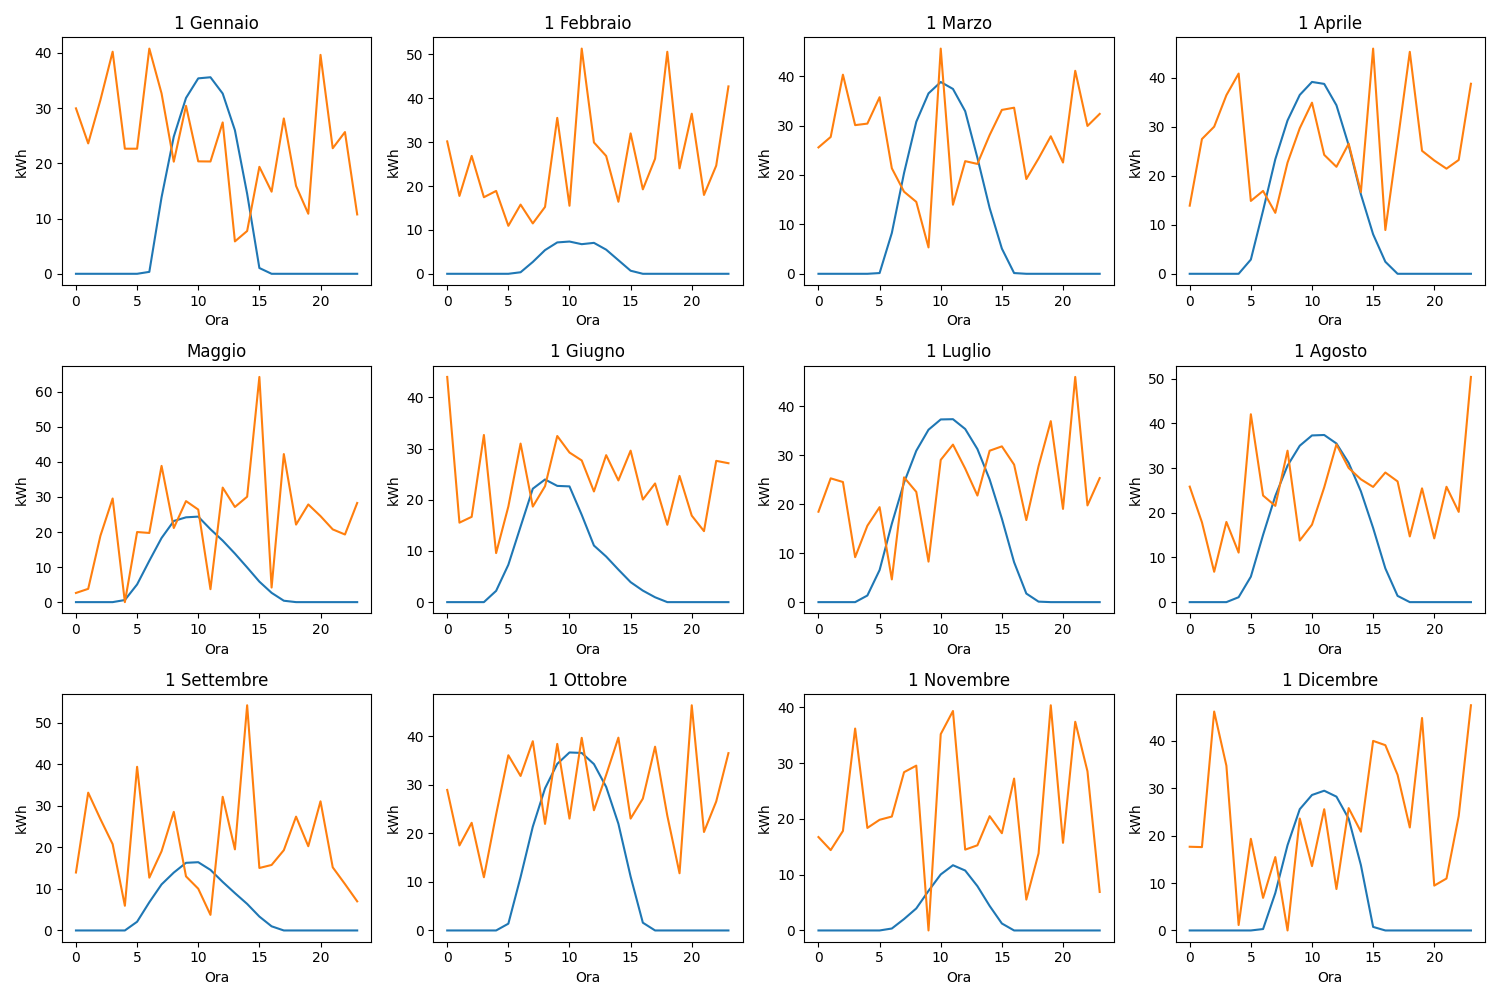
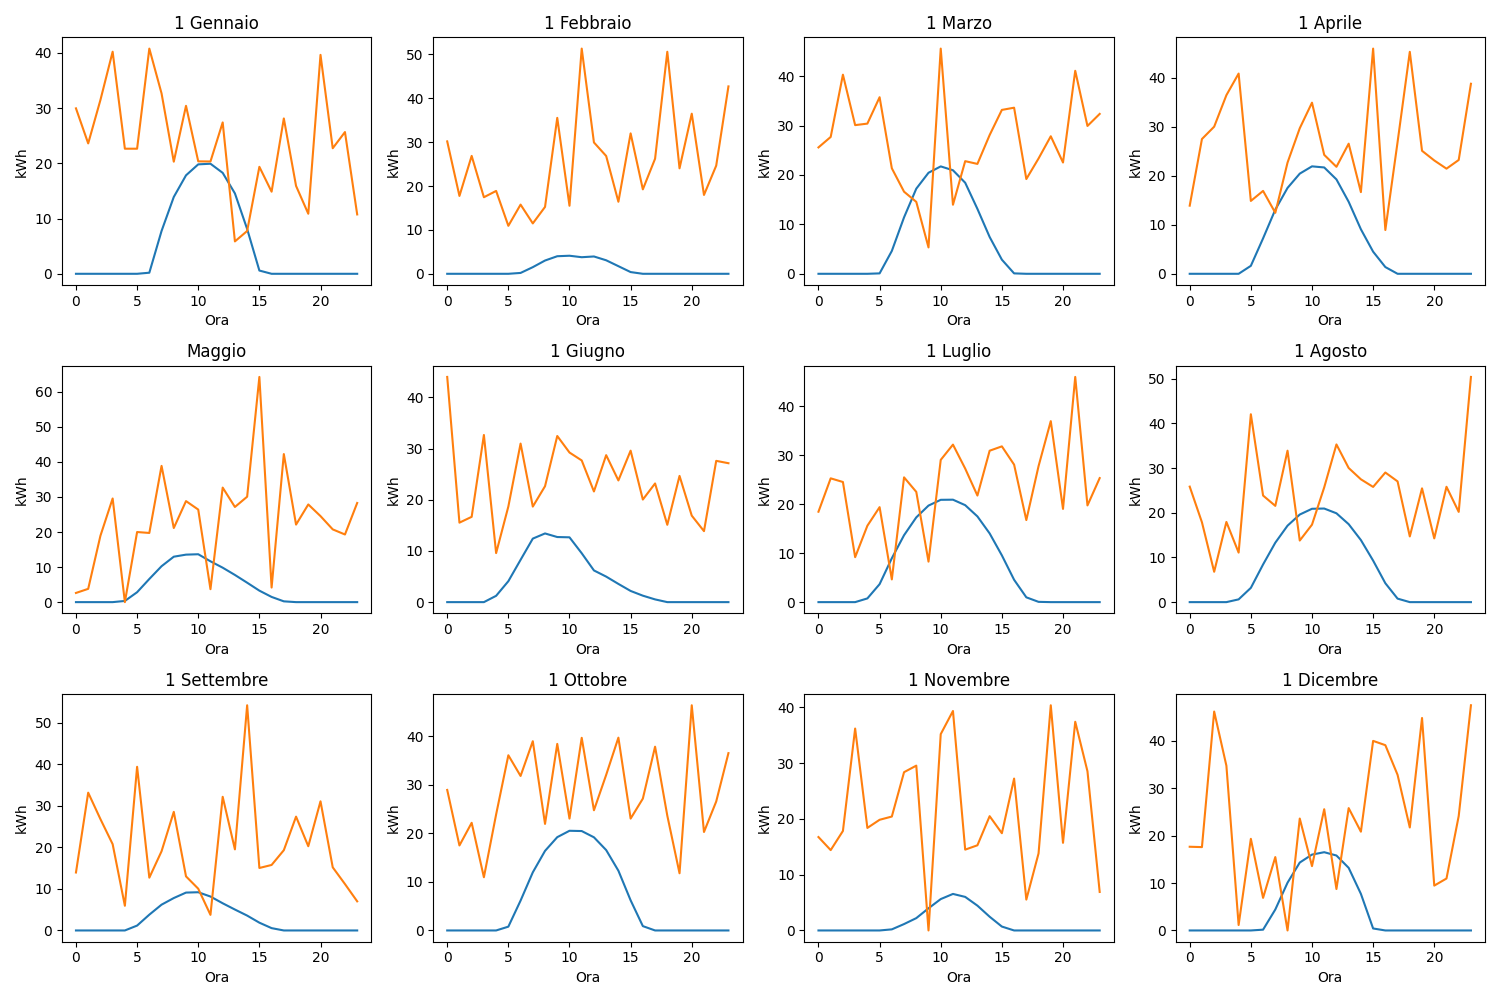
bug fix

diff --git a/multivector_simulator/models/model.py b/multivector_simulator/models/model.py
@@ -1,7 +1,6 @@
 from math import inf
 import numpy as np
 from pydantic import NonNegativeInt, PositiveFloat, validate_call, PositiveInt
-import main
 import multivector_simulator.common as common
 from typing import Literal, Tuple
 from cacer_simulator.common import PositiveOrZeroFloat, get_kw_cost
@@ -201,6 +200,7 @@ def total_economic_cost(
         PositiveFloat - total costs over 20 years in euro
     """
 
+    # COST OF ENERGY (ELECTRIC (and refrigeration), THERMAL)
     cost_electricity_from_grid = (
         annual_electric_energy_from_grid * common.ELECTRIC_ENERGY_PRICE
     )
@@ -215,17 +215,20 @@ def total_economic_cost(
         cost_thermal_from_grid, labelCostSaving="Costs"
     ).sum()
 
+    # INSTALLATION COST
     cost_installation_PV = cost_PV_installation(PV_size)
     cost_installation_battery = cost_battery_installation(battery_size)
     cost_installation_trigen_cogen = cost_cogen_trigen_installation(
         cogen_trigen_size, labelCogTrigen
     )
 
+    # COST OF GAS USE
     annually_cost_gas = cost_gas_used_cogen_trigen(annually_used_gas)
     annually_cost_gas_actualized = actualization(
         annually_cost_gas, labelCostSaving="Costs"
     ).sum()
 
+    # MAINTENANCE COST
     annually_cost_maintenance_PV = maintenance_cost_PV(PV_size, battery_size)
     cost_maintenance_PV_actualized = actualization(
         annually_cost_maintenance_PV, labelCostSaving="Costs"
@@ -237,6 +240,8 @@ def total_economic_cost(
     cost_maintenance_cogen_trigen_actualized = actualization(
         annually_cost_maintenance_cogen_trigen, labelCostSaving="Costs"
     ).sum()
+
+    # TOTAL COST
     total_cost = (
         cost_installation_PV
         + cost_installation_battery
@@ -708,7 +713,7 @@ def optimizer(
             refrigerator_consumption,
             labelCogTrigen,
         ),
-        method="SLSQP",
+        method="trust-constr",
         bounds=common.Optimizer().BOUNDS,
     )
     PV_size, battery_size, cogen_trigen_size = result.x

diff --git a/multivector_simulator/common.py b/multivector_simulator/common.py
@@ -217,9 +217,9 @@ class Optimizer(BaseModel):
         0.5  # balance between minimizing costs and maximizing coverage
     )
     INITIAL_GUESS: list[NonNegativeInt] = [
-        100,
-        0,
         10,
+        0,
+        0,
     ]  # initial guess for PV and Battery and cogen/trigen sizes
     BOUNDS: ClassVar[List[Tuple[Optional[int], Optional[int]]]] = [
         (0, None),  # Bound per PV size
